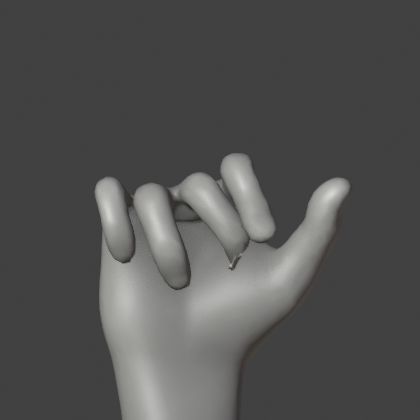
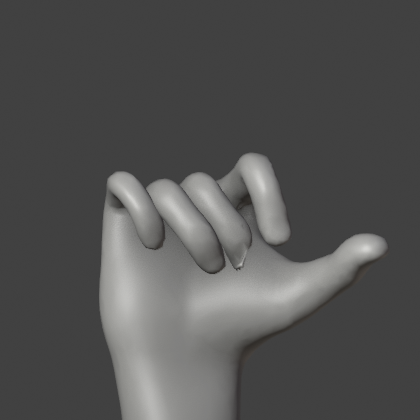
R1 D-053 + fist fingers together: story on the chair, video-speed grip, 2 breaths per 10 s
- D-053 (user): every story scene on the measurement chair, only the intro differs; fist at the
  video's speed (close ~0.56 s, open ~0.39 s); breathing 2 per 10 s (2.0 s in / 3.0 s out).
  D-050 story placement superseded; pose assets kept.
- fist: user feedback "middle/ring/pinky should stay together like the video" -> at the fist each
  finger is moved sideways (<=25 deg) and twisted (<=20 deg) at the MCP until its middle phalanx
  and tip meet the neighbour; mid-frames scale it by the leading PIP curve; gate adds neighbour
  contact checks; 42 frames FAIL 0. Mesh deform off while solving (40 min -> 3 min).
- O-010 recurrence (self-matching pkill/pgrep), PLAN 9.8, WORK_STATE.

Claude-Session: https://claude.ai/code/session_01AXbpXSdzA7KrmCTamq6EbE

Changed region(s): [[0.5262, 0.3405, 0.9286, 0.8048], [0.2167, 0.4024, 0.5881, 0.7119], [0.5571, 0.8048, 0.5881, 0.8357]]

diff --git a/scripts/assets/fist-v3.py b/scripts/assets/fist-v3.py
@@ -26,6 +26,8 @@ o, rig = bpy.data.objects['body_v3'], bpy.data.objects['rig']; P = rf.Poser(rig)
 def _up2():                                                         # Rigify finger drivers (MCH-*_drv) lag one update
     bpy.context.view_layer.update(); bpy.context.view_layer.update()
 P.up = _up2
+for _m in o.modifiers: _m.show_viewport = False                     # solving reads bones only: skip the 53k-vertex deform on every
+                                                                     # update (the joint closure search timed out at 40 min with it on)
 P.reset(); _sh = P.head(f'ORG-upper_arm.{SIDE}')                     # hand study: elbow bent 90°, forearm forward, thumb up
 P.arm_relaxed(SIDE, _sh + Vector((0.0, -.28, -.30)), None, _sh + Vector((0.0, .3, -.35)), flex=0, dev=0, pronation=0)
 FING = ('f_index', 'f_middle', 'f_ring', 'f_pinky'); VID = {'f_index': 'index', 'f_middle': 'middle', 'f_ring': 'ring', 'f_pinky': 'pinky'}
@@ -66,16 +68,70 @@ def hand_frame():
 
 
 def apply(A, T):
-    """A[(f, j)] = flexion deg per finger joint; T = (a, b, e, c, d) thumb: CMC turns about the palm normal / the hand axis /
-    the across-palm axis, then MCP and IP flexion."""
+    """A[(f, j)] = flexion deg per finger joint (j = 1..3); A[(f, 0)] = closure 0..1 (fingers drawn together until they touch);
+    T = (a, b, e, c, d) thumb: CMC turns about the palm normal / the hand axis / the across-palm axis, then MCP and IP flexion."""
     zero_hand()
-    n_ = P.palm_normal(SIDE)
-    for f in FING:                                                     # fingers close together as they curl (video: spread → 0)
-        if A.get((f, 0)): P.turn(f'{f}.01.{SIDE}', A[(f, 0)], n_); unscale(f'{f}.01.{SIDE}')
     for _ in range(3):                                                 # fixed point: the drivers couple the joints
         for f in FING:
             for j in (1, 2, 3): set_joint(f, j, A[(f, j)])
+    close_gaps(A)
     thumb(T)
+
+
+NB = {'f_index': 'f_middle', 'f_ring': 'f_middle', 'f_pinky': 'f_ring'}   # who each finger closes onto (middle = anchor)
+
+
+def nb_gap(f, j=2):
+    """Side-by-side test: capsule gap between phalanx j of f and of its neighbour (the proximal capsules overlap at the knuckles
+    in the flat hand; the fitted ORG-f_index.03 is skewed ≈ 40° toward the middle finger, so the index pair uses the middle phalanx)."""
+    C = CAPS()
+    if j == 3 and 'f_index' in (f, NB[f]): j = 2                     # skewed fitted index tip: middle phalanx stands in
+    return gap(C[(f, j)], C[(NB[f], j)])
+
+
+def close_gaps(A):
+    """Move each curled finger sideways at its MCP (about proximal phalanx × flexion axis, toward or away from its neighbour)
+    until its middle phalanx just touches the neighbour's, then twist it about the proximal phalanx (≤ 20°) so the fingertips meet
+    too — side by side instead of fanning out with the metacarpals (the fitted knuckles are 27 mm apart for 16 mm-thick fingers, so 'keep the knuckle spacing' left them splayed) — by the closure
+    fraction A[(f, 0)]: gap = (1 − w)·gap₀ + w·contact. User 2026-10-06: "주먹을 쥘 때 중지, 약지, 소지가 … 벌어지지 말고 영상처럼
+    붙어 있어야 자연스러워." (First version: turning the straight fingers about the palm normal before curling — parallel in the
+    palm plane, still fanned once curled.)"""
+    for f in ('f_index', 'f_ring', 'f_pinky'):
+        w = A.get((f, 0), 0.0)
+        if w <= 0: continue
+        if f in CLOSE_END: turn_mcp(f, A, w * CLOSE_END[f][0], w * CLOSE_END[f][1])
+        else: solve_close(f, A, w)
+
+
+CLOSE_END = {}                                                       # (sideways, twist) solved once at the fist; mid-frames scale it
+
+
+def turn_mcp(f, A, th, ph, M0=None):
+    ctl = f'{f}.01.{SIDE}'; M0 = M0 or P.M(ctl)
+    a1 = P.hinge(SIDE, f, 1); d1 = (P.tail(f'ORG-{f}.01.{SIDE}') - P.head(f'ORG-{f}.01.{SIDE}')).normalized()
+    R_ = Matrix.Rotation(math.radians(ph), 3, d1) @ Matrix.Rotation(math.radians(th), 3, a1.cross(d1).normalized())
+    P.set_world(ctl, M0.translation, R_ @ M0.to_3x3()); unscale(ctl)
+    for k in (2, 3): set_joint(f, k, A[(f, k)])                     # keep the measured PIP/DIP flexion while turning
+
+
+def solve_close(f, A, w=1.0):
+    """Coordinate descent on (sideways ≤ 25°, twist ≤ 20°) so the middle phalanges and the fingertips both meet the neighbour."""
+    M0 = P.M(f'{f}.01.{SIDE}'); a1 = P.hinge(SIDE, f, 1)
+    g0 = (nb_gap(f, 2), nb_gap(f, 3)); tgt = tuple((1 - w) * g + w * CONTACT for g in g0)
+    def cost(x):
+        turn_mcp(f, A, x[0], x[1], M0)
+        e = [nb_gap(f, j) - t for j, t in zip((2, 3), tgt)]
+        return max(abs(e[0]), abs(e[1])) + 3 * sum(max(0.0, -x_ - .0015) for x_ in e)   # sinking past 1.5 mm costs more
+    x = [0.0, 0.0]; best = cost(x)
+    for step in (8.0, 4.0, 2.0, 1.0):
+        moved = True
+        while moved:
+            moved = False
+            for i, lim in ((0, 25.0), (1, 20.0)):
+                for sg in (-1, 1):
+                    y = list(x); y[i] = max(-lim, min(lim, y[i] + sg * step)); c = cost(y)
+                    if c < best - 1e-6: best, x, moved = c, y, True
+    turn_mcp(f, A, x[0], x[1], M0); return x
 
 
 def thumb(T):
@@ -128,17 +184,9 @@ def tip_palm_gap(C, f):
     return min(gap(C[(f, j)], C[('palm', k)]) for j in (2, 3) for k in (1, 2, 3, 4))
 
 
-# ---- rest spread: each finger's angle about the palm normal from the middle finger ----
 P.reset(); P.arm_relaxed(SIDE, _sh + Vector((0.0, -.28, -.30)), None, _sh + Vector((0.0, .3, -.35)), flex=0, dev=0, pronation=0)
-def _spread():
-    n_ = P.palm_normal(SIDE); proj = lambda v: (v - v.dot(n_) * n_).normalized()
-    m = proj(P.tail(f'ORG-f_middle.01.{SIDE}') - P.head(f'ORG-f_middle.01.{SIDE}')); out = {}
-    for f in FING:
-        d = proj(P.tail(f'ORG-{f}.01.{SIDE}') - P.head(f'ORG-{f}.01.{SIDE}'))
-        out[f] = math.degrees(math.atan2(m.cross(d).dot(n_), m.dot(d)))
-    return out
-SPREAD = _spread(); ADD_K = .85
-print('   rest spread from the middle finger (deg)', {f: round(v, 1) for f, v in SPREAD.items()})
+
+CONTACT = -.0005                                                    # middle phalanges just touching (skin)
 
 
 # ---- end pose: fingers ----
@@ -148,7 +196,7 @@ for f in FING:
     lo, hi = 0.0, 1.0
     def at(k):
         A = {(g, j): 0.0 for g in FING for j in (1, 2, 3)}
-        A[(f, 0)], A[(f, 1)], A[(f, 2)], A[(f, 3)] = -SPREAD[f] * ADD_K, MCP_END[f] * k, PIP_END * k, PIP_END * DIP_K * k
+        A[(f, 0)], A[(f, 1)], A[(f, 2)], A[(f, 3)] = 0.0, MCP_END[f] * k, PIP_END * k, PIP_END * DIP_K * k
         apply(A, (0, 0, 0, 0, 0)); return tip_palm_gap(CAPS(), f)
     if at(1.0) < -.002:                                             # tip sinks into the palm → scale the whole finger back
         for _ in range(12):
@@ -158,8 +206,18 @@ for f in FING:
         k = lo
     else: k = 1.0
     END[(f, 1)], END[(f, 2)], END[(f, 3)] = MCP_END[f] * k, PIP_END * k, PIP_END * DIP_K * k
-    END[(f, 0)] = -SPREAD[f] * ADD_K
+    END[(f, 0)] = 1.0                                              # closure: touching its neighbour
     print(f'   fist {f}: scale {k:.2f} → MCP {END[(f, 1)]:.0f} PIP {END[(f, 2)]:.0f} DIP {END[(f, 3)]:.0f}, tip→palm gap {at(k) * 1000:.1f} mm')
+
+zero_hand()
+for _ in range(3):
+    for f in FING:
+        for j in (1, 2, 3): set_joint(f, j, END[(f, j)])
+for f in ('f_index', 'f_ring', 'f_pinky'):
+    CLOSE_END[f] = solve_close(f, END)
+print('   finger closure at the fist (sideways°, twist°)', {f: [round(v, 1) for v in x] for f, x in CLOSE_END.items()},
+      ' gaps mid/tip mm', {f: (round(nb_gap(f) * 1000, 1), round(nb_gap(f, 3) * 1000, 1)) for f in NB})
+
 
 # ---- end pose: thumb (grid search) ----
 def thumb_cost(T):
@@ -203,12 +261,13 @@ if best is None: best = (0, tuple(TESTS[0]), (0.0, 0.0, 0.0))
 TEND = best[1]
 print(f'   thumb: CMC {TEND[0]:.1f}/{TEND[1]:.1f}/{TEND[2]:.1f}, MCP {TEND[3]:.1f}, IP {TEND[4]:.1f} → pad gap to index/middle (worse) {best[2][1] * 1000:.1f} mm, worst penetration {best[2][2] * 1000:.1f} mm')
 
-OPEN = {(f, j): (0, 4, 6, 3)[j] for f in FING for j in (0, 1, 2, 3)}  # open hand: rest spread, near straight, slight natural curl
+OPEN = {(f, j): (0, 4, 6, 3)[j] for f in FING for j in (0, 1, 2, 3)}  # open hand: rest spread (closure 0), near straight, slight curl
 TOPEN = (0.0, 0.0, 0.0, 4.0, 3.0)
 
 
 def prof(direction, f, j, s):
-    key = (f'{VID[f]}.' if f != 'thumb' else 'thumb.') + ('MCP', 'PIP', 'DIP')[max(j, 1) - 1]   # j = 0 (adduction) follows MCP
+    key = (f'{VID[f]}.' if f != 'thumb' else 'thumb.') + ('PIP', 'MCP', 'PIP', 'DIP')[j]   # j = 0 (closure) follows the leading PIP:
+    # in the video the fingers are together as soon as they hook (s ≈ .25), long before the MCP completes
     return float(np.interp(s, S, PROF['profile'][direction][key]))
 
 
@@ -234,7 +293,9 @@ def hand_collisions(rows):
         add(f'{f} tip ↔ palm', -tip_palm_gap(C, f) * 1000)
     for j in (2, 3):
         add(f'thumb.0{j} ↔ fingers', -min(gap(C[('thumb', j)], C[(f, k)]) for f in FING for k in (1, 2, 3)) * 1000)
-    for i, f in enumerate(FING):                                      # neighbours may touch side by side; skip-one pairs never
+    for f, g in NB.items():                                          # neighbours touch side by side, never sink in
+        add(f'{f} ↔ {g} (side by side)', -nb_gap(f) * 1000); add(f'{f} ↔ {g} tips', -nb_gap(f, 3) * 1000)
+    for i, f in enumerate(FING):                                      # skip-one pairs never touch
         for g in FING[i + 2:]:
             add(f'{f} ↔ {g}', -min(gap(C[(f, a)], C[(g, b)]) for a in (1, 2, 3) for b in (1, 2, 3)) * 1000)
     return rows
@@ -308,6 +369,7 @@ sc = bpy.context.scene
 for x in list(bpy.data.objects):                                     # rig widgets (WGT-*) would render as blades
     if x not in (o, rig): bpy.data.objects.remove(x, do_unlink=True)
 rig.hide_render = True
+for _m in o.modifiers: _m.show_viewport = True
 cs = o.modifiers.new('cs', 'CORRECTIVE_SMOOTH'); cs.smooth_type = 'SIMPLE'; cs.factor = .5; cs.iterations = 8   # as build-figure-v3
 sc.render.engine = 'BLENDER_WORKBENCH'; sc.display.shading.light = 'STUDIO'; sc.display.shading.color_type = 'SINGLE'
 sc.display.shading.single_color = (.62, .6, .57); sc.display.shading.show_cavity = True

diff --git a/docs/uiux_system/records/D_DECISIONS.md b/docs/uiux_system/records/D_DECISIONS.md
@@ -1293,7 +1293,7 @@ clay gate에서 hero 갈래가 사람·사다리보다 의미 없는 면에 더 
 | | |
 |---|---|
 | 시점 | 2026-10-04 `[대화]` |
-| 상태 | **사용자 결정**(AI 추천안 그대로) — 첫 시안 렌더 진행 |
+| 상태 | **사용자 결정**(AI 추천안 그대로) — 2026-10-06 D-053이 story 부분을 대체(story는 모두 측정 의자, 도입부만 다른 자세). 바닥·책상·벽·사다리 자세 자산은 보존 |
 | 연결 | D-046, D-048, D-049, F-030, IDEA-R1-INTRO §13, `verification/r1-poses-20261004/`, `verification/r1-light-round-20261004/` |
 | CASE | CASE-005 |
 
@@ -1392,9 +1392,52 @@ Rigify(얼굴 뼈 없음): 관절은 A 메시에서 잰 위치, 손가락 4개 +
 ### 되돌려야 하는 조건
 MediaPipe가 쥔 주먹에서 손가락 가림으로 각도를 믿을 수 없으면(좌우 시점 간 차이가 크면) 끝 키포즈는 해부학 수치, 중간은 측정된 결합 비율만 씀. 그래도 부자연스러우면 2번(MANO 계열 데이터셋, 내부용 허용)으로. 원본 영상은 저장소에 넣지 않음(추출 곡선·작은 비교 프레임만).
 
+### 갱신 2026-10-06 (2) — 손가락이 붙어서 감기게
+- 사용자 `[대화]`: "주먹을 쥘 때 중지, 약지, 소지가 만든 것처럼 벌어지지 말고 영상처럼 붙어 있어야 자연스러워. 이를 신경써서 다시 만들어봐."
+- 원인: 리그의 손가락 뿌리 관절(MCP)이 26–27 mm씩 벌어져 있다(손가락 두께는 약 16 mm). 손가락마다 굽는 축도 조금씩 기울어 있다. 그래서 굽힐수록 부채꼴로 벌어졌다. 첫 시도(편 손가락을 손바닥 평면에서 나란히 돌린 뒤 굽힘)는 효과가 없었다.
+- 수정: 끝 주먹에서 손가락마다 MCP에서 두 값을 한 번 푼다. 옆으로 모으기(≤ 25°)로 가운데 마디가 이웃과 맞닿게 하고, 비틀기(≤ 20°)로 손끝까지 모은다. 중간 프레임은 그 각도에 '모음 곡선'을 곱한다. 모음 곡선은 가장 먼저 움직이는 PIP 곡선이다(영상에서 손가락은 갈고리가 될 때 이미 붙어 있음).
+- 관문에 이웃 손가락 가운데 마디·손끝 접촉 검사를 추가했다. 42프레임 FAIL 0. `verification/r1-fist-20261006/fist_fingers_together_before_after.jpg`.
+- 함께: 풀이 중에는 몸 메시 변형을 끔(40분 → 3분).
+
 ### 결과 2026-10-06
 - 주먹: `fist-v3.py` → `verification/r1-fist-20261006/`(`fist_vs_video.jpg` 본인 영상과 같은 진행 시점 비교). 관절별 측정 곡선, 손가락 모음, 엄지는 마지막에 들어오고 먼저 나감. 쥠·폄 42프레임 FAIL 0.
 - 숨: `breath-v3.py` → `breath_deep_v3.npz`. 위가슴 +5.5 cm, 아래가슴 +6.4 cm, 배꼽 +3.0 cm(추정). 기존 `breath` 키는 조용한 숨(+1.5 cm)으로 유지. `verification/r1-breath-20261006/side_overlay.png`.
 - 함께 고친 것(F-035, R-021): 검증기 손가락 측정 특이점과 휴지 손 오프셋, Poser 굽힘 축 뒤집힘(사다리 손 끝마디 −43° 실제 결함), 조절점 스케일 새어 듦. 다섯 자세 다시 빌드 FAIL 0.
 - 확인할 것: 브리프 시간값(쥠 0.12 s = 빠른 쥠 하한, 숨 '10초에 3회' = 조용한 숨 빠르기 — 깊은 숨이면 10초에 1회가 자연스러움). 어느 장면에서 주먹을 쥐는지(§8.5 전경 주먹 vs D-050 사다리 쥠).
+
+## D-053. Story는 모두 측정 의자에 앉은 자세 하나로, 도입부만 다른 자세 — 잡음마다 차이는 자세가 아니라 유입 표시와 잡음을 만드는 움직임으로
+
+| | |
+|---|---|
+| 시점 | 2026-10-06 `[대화]` |
+| 상태 | **사용자 결정** |
+| 연결 | D-050(story 부분 대체), D-052, F-034, IDEA-R1-NOISE §8.3–8.6 |
+| CASE | CASE-005 |
+
+### 갈림길
+D-052 결과를 보고하며 AI가 세 가지를 물었다. 브리프 시간값이 실제보다 빠르다는 점(쥠 0.12 s, 숨 10초에 3회), 그리고 주먹을 어느 장면에 쓸지(§8.5 전경 주먹 vs D-050 사다리 쥠)였다. 사용자 `[대화]`: "쥐는 속도는 영상처럼. 숨 속도는 10초에 2번. 자세는 일단 구현의 편의성을 위해 story 모두 의자에 앉아있는 상태로 진행해보자. 자세는 같아도, 각 노이즈별로 노이즈원에 대한 유입 표시 효과나 노이즈를 만드는 움직임을 처리해야 해서 간단하진 않을거야. 처음 도입부만 다른 자세로."
+
+### 검토한 선택지
+- 자세: D-050 장면마다 자리 옮김(의자 → 책상 → 벽 → 사다리, 숨은 컷) / **story 전부 측정 의자, 도입부만 다른 자세**.
+- 쥠 속도: 브리프 0.12 s / **영상(본인 손) 속도**.
+- 숨: 10초에 3회(조용한 숨 빠르기) / 10초에 1회(깊은 숨) / **10초에 2회**.
+
+### 고른 것과 근거
+- **자세:** 사용자 결정, 구현 편의.
+  - 자리 옮김에 필요한 숨은 컷, 자세별 리그 내보내기, 자세별 전극·선 경로가 하나로 줄어든다.
+  - 잡음마다 차이는 자세가 아니라 두 가지로 만든다: 잡음원의 유입 표시, 잡음을 만드는 움직임(숨: 가슴, 근육: 주먹).
+- **쥠 속도:** 영상 핵심 구간 0.46–0.62 s, 평균 약 0.56 s. 펼 때는 0.22–0.91 s로 흩어져 있어 중앙값 약 0.39 s를 쓴다. 근거는 `fist_profile_v1.json` `core_duration_s`. 브리프 §8.5의 "쥠 0.12 s · 폄 0.25 s"를 대체한다. 잡음 포락선과 맞추는 방식(F-030)은 쥠 시작 시점만 맞추고 길이는 영상 값을 쓴다.
+- **숨:** 10초에 2회(주기 5 s, 분당 12회). 조용한 숨의 아래쪽 빠르기이고, 깊은 숨 키를 써도 과호흡처럼 보이지 않는다.
+  - 들숨:날숨 ≈ 1:1.5 → 들숨 2.0 s, 날숨 3.0 s.
+  - 진폭: 깊은 숨 키 0.6–1.0배. 화면에서 읽히는지 보고 정한다.
+  - 브리프 §8.4의 "BW 저주파 위상과 같은 위상"은 유지한다.
+
+### 버린 것과 이유
+- 장면별 자리 옮김(D-050 story 부분): 구현 부담 대비 이득이 작다는 사용자 판단. 자세 자산(바닥·책상·벽·사다리 glb와 검증 보고)은 지우지 않는다. 바닥 자세는 도입부 후보로 남는다.
+- 쥠 0.12 s: 실제 반복 쥠보다 4배 빠르다(F-034).
+- 숨 10초에 3회: 깊은 숨으로는 과호흡처럼 보인다.
+
+### 되돌려야 하는 조건
+- 의자 한 자리에서 세 잡음 장면이 서로 구별되지 않으면(카메라·유입 표시만으로 부족) 장면별 자세 변화를 다시 연다. 예: 기저선 장면은 등받이에 기대기.
+- 영상 속도의 쥠이 잡음 폭발 간격(0.5–1 s)과 맞지 않아 쥠이 겹치면, 쥠 길이를 폭발 간격에 맞춰 줄이되 관절 순서는 유지한다.
 

diff --git a/docs/uiux_system/rounds/R1/PLAN-R1-INTRO-STORY-V2.md b/docs/uiux_system/rounds/R1/PLAN-R1-INTRO-STORY-V2.md
@@ -289,3 +289,11 @@
 - 함께 고친 것: 검증기 손가락 측정(경첩 축, 휴지 기준), Poser 굽힘 축, 조절점 스케일. 사다리 손 끝마디 −43° 실제 결함 해소. 다섯 자세 glb 다시 빌드(FAIL 0). 자체 테스트에 주먹 사례 2개(F-035, R-021).
 - 사용자 확인 대기: 주먹 비교 시트, 숨 옆 윤곽, 시간값(쥠 0.12 s, 숨 10초에 3회), 주먹 장면(§8.5 전경 주먹 vs 사다리 쥠).
 - 남은 일: 숨에 뼈 움직임(흉추 3–5°, 어깨 1–2 cm) 추가, 깊은 숨 키와 주먹 시퀀스를 자세 glb에 넣기(웹에서는 손가락 뼈 회전 또는 촘촘한 단계 키로 — 선형 셰이프 키 하나로는 손가락이 짧아짐), 검지 끝마디 근처 피부 접힘, 원본 영상의 엄지 쪽·손등 쪽 구간 활용(지금은 가림 때문에 안 씀).
+
+### 9.8 Story 자세 단일화와 시간값 (D-053, 2026-10-06)
+- story는 모두 측정 의자에 앉은 자세(`body_v3_chair`)로 진행하고, 도입부만 다른 자세로 한다(후보: 바닥 F3). D-050의 장면별 자리 옮김은 story에서 대체되었다. 자세 자산은 보존한다.
+- 장면마다 다른 점은 자세가 아니라 두 가지다: 잡음원 유입 표시, 잡음을 만드는 움직임(BW = 숨, MA = 주먹, 전원선 = 유입 표시 위주).
+- 쥠은 영상 속도로 한다: 쥠 약 0.56 s, 폄 약 0.39 s(`fist_profile_v1.json` `core_duration_s`). 브리프 §8.5의 0.12/0.25 s를 대체한다.
+- 숨은 10초에 2회로 한다: 주기 5 s, 들숨 2.0 s : 날숨 3.0 s. 진폭은 깊은 숨 키 0.6–1.0배.
+- 주먹 피드백(사용자): "중지, 약지, 소지가 … 벌어지지 말고 영상처럼 붙어 있어야" → 손가락 모으기를 다시 만든다. 가운데 마디가 맞닿도록 옆으로 모으고, MCP에서 비틀어 손끝까지 모은다.
+- 다음: 의자 자세에 주먹(오른손, 허벅지 위)과 숨을 붙인 미리보기, 잡음별 유입 표시 설계(D-047 위임 전 계획).

diff --git a/docs/uiux_system/records/O_INCIDENTS.md b/docs/uiux_system/records/O_INCIDENTS.md
@@ -238,3 +238,8 @@ skill과 검증기(가동 범위·경첩·충돌·접촉 + 서고 물체 충돌)
 
 ### 재발 방지와 자동화 상태
 수동: 백그라운드 렌더 중에는 그 렌더가 읽는 스크립트를 고치지 않는다(고쳐야 하면 대기열을 먼저 끝내거나 사본으로). 프로세스 종료는 PID로. 임시 스크립트는 표준 모듈 이름을 피한다. 자동화 없음.
+
+### 재발 2026-10-06
+- 대기 명령을 끄려고 `pkill -f "until grep -qE"`를 썼다. 이 패턴이 그 명령을 실행한 셸 자신과도 일치해 셸이 함께 꺼졌다(exit 144). 작업 결과는 이미 커밋된 뒤라 잃은 것은 없다.
+- `until ! pgrep -f "fist-v3.py"` 대기 루프도 같은 이유로 끝나지 않았다(대기 명령 자신의 명령줄에 "fist-v3.py"가 들어 있음). 두 개가 시간 제한까지 돌았다.
+- 규칙 보강: 프로세스는 `pgrep -f "^python scripts/…"`처럼 시작을 고정한 패턴으로 찾고 PID로 `kill`한다. 끝나기를 기다릴 때는 자기 이름이 들어가는 `pgrep -f` 대신 로그에 적힌 끝 표시를 기다린다.
